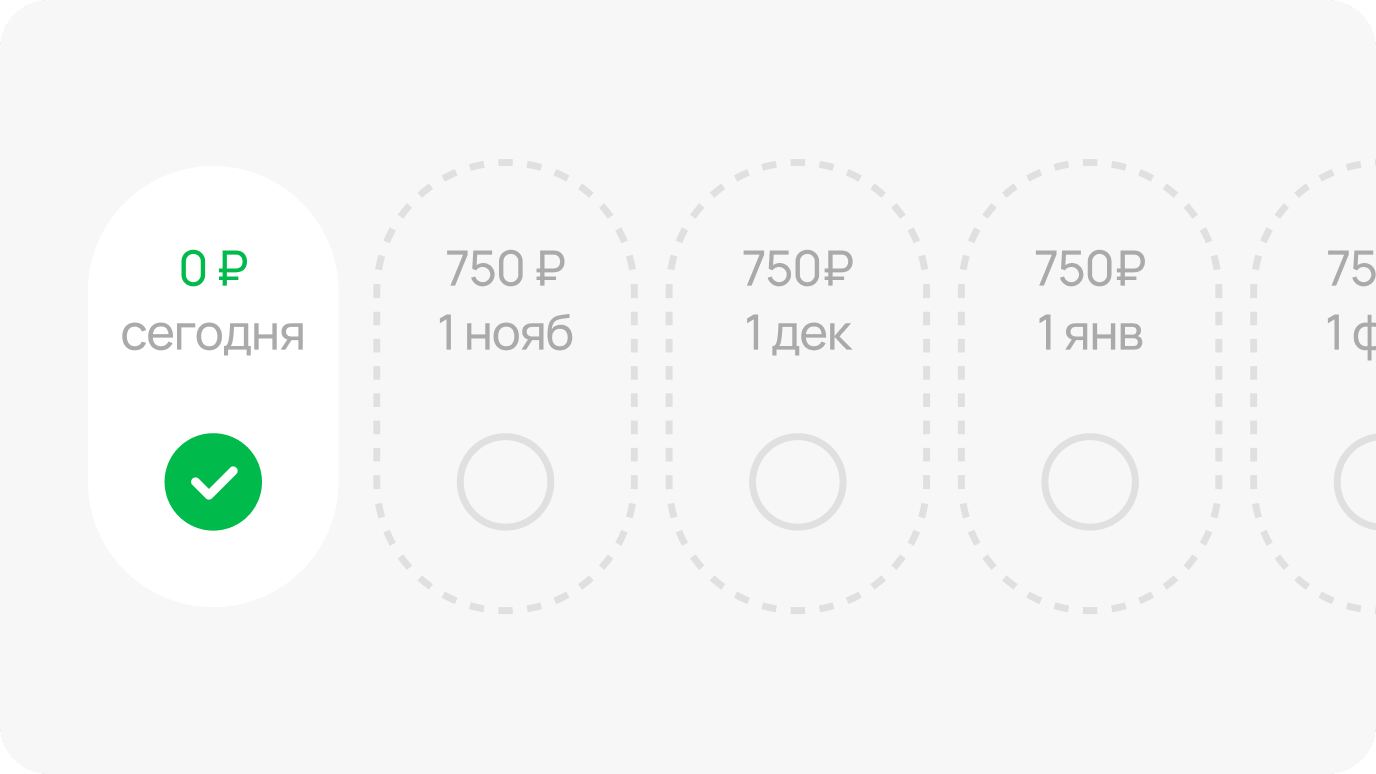
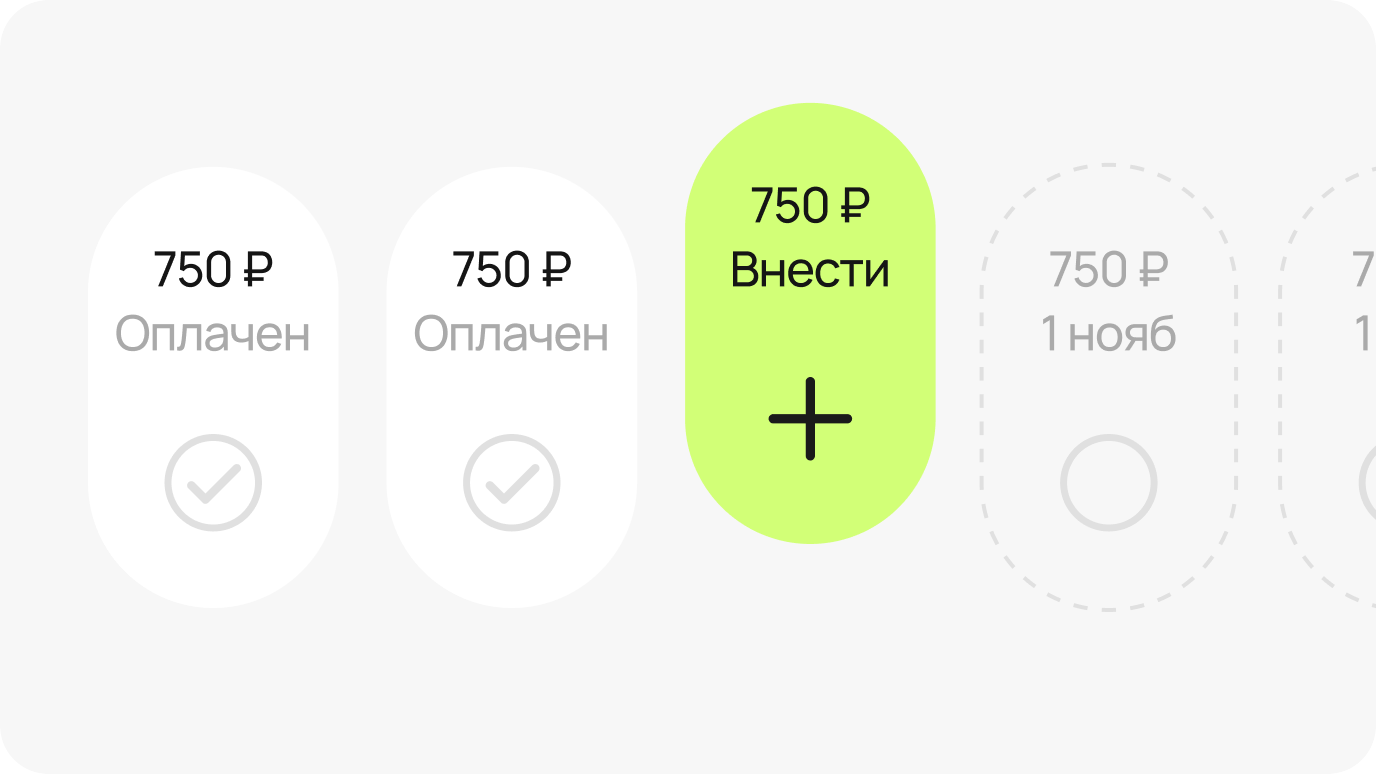
Статья: плашки «Выводы» со ссылкой на законы под плашкой, новые заглушки экранов, новая картинка шапки, иллюстрации на мобильном крупнее
Claude-Session: https://claude.ai/code/session_01BBwQy3shMoLzDP97ZsKZNh

diff --git a/CLAUDE.md b/CLAUDE.md
@@ -46,7 +46,7 @@
 - Adaptive-токены пересчитываются из переменных Figma: обновить `scripts/figma-vars/*.json` и запустить `node scripts/adaptive-tokens.mjs`.
 
 ## Статья
-- `/blog/marketplaces-installments` (`src/pages/blog/*`, `src/components/article/*`): секции чередуют surface/primary и surface/tertiary, иллюстрации — экспорт кадров макета 2x (`src/assets/article/img/`, углы прозрачные — скругление в самой картинке, без CSS-обрезки) → AVIF/WebP/PNG, на мобильном в масштабе 0.6 с горизонтальной прокруткой; «Норма» — `Note.astro`; «Итог» — настоящая `<table>`; заголовки этапов пронумерованы (`.art-step`, CSS-счётчик, Figma `808:12267`): номер в кружке 32 px (element-border, цифра Body/Medium text/secondary-inversion) — на desktop слева от заголовка по центру первой строки (22 px до текста), заголовок на одной линии с текстом; на mobile кружок над заголовком (gap-xs); списки в тексте — `ul`/`ol` внутри `.prose`; на мобильном плашка на всю ширину экрана, первая колонка залипает, площадки листаются под неё.
+- `/blog/marketplaces-installments` (`src/pages/blog/*`, `src/components/article/*`): секции чередуют surface/primary и surface/tertiary, иллюстрации — экспорт кадров макета 2x (`src/assets/article/img/`, углы прозрачные — скругление в самой картинке, без CSS-обрезки) → AVIF/WebP/PNG, на мобильном в масштабе 0.72 (первый телефон и половина второго — видно, что листается) с горизонтальной прокруткой; заглушки «Не удалось найти экран» (иконка, подзаголовок-причина) — в самих картинках; плашка «Выводы» — `Note.astro` (817:11981: нумерованный `ol`, номер в кружке-обводке 24 px), ссылка на законы — отдельным абзацем после плашки; «Итог» — настоящая `<table>`; заголовки этапов пронумерованы (`.art-step`, CSS-счётчик, Figma `808:12267`): номер в кружке 32 px (element-border, цифра Body/Medium text/secondary-inversion) — на desktop слева от заголовка по центру первой строки (22 px до текста), заголовок на одной линии с текстом; на mobile кружок над заголовком (gap-xs); списки в тексте — `ul`/`ol` внутри `.prose`; на мобильном плашка на всю ширину экрана, первая колонка залипает, площадки листаются под неё.
 - Навигация (`ArticleNav.astro` + `src/scripts/article-nav.ts`): кнопка внизу по центру (24 px от низа), подпись — текущий раздел, в оглавлении он подсвечен; видна всё время между первым экраном и оффером «Заполнить бриф», на первом экране, оффере и в футере спрятана; оверлей — градиент static/black 40% снизу → прозрачный вверху (размытие убрали по просьбе); у кнопки без тени (на мобильном её обрезала панель браузера); панель вырастает из кнопки, иконка строк превращается в крестик; Esc, клик по оверлею, «Закрыть», пункт — плавный нативный скролл.
 - Шапка (`ArticleHead.astro` + `src/scripts/article-head.ts`, Figma `746:12778`): крошки «Главная / название» (`Crumbs.astro`, те же, что в первом экране) на полосе во всю ширину, desktop 84; на первом экране статьи не показывается совсем, ниже — выезжает при скролле вверх и уезжает при скролле вниз (порог 12 px). Фон — прогрессивное стекло: 4 слоя `backdrop-filter` 2/4/8/16 px под масками (сверху сильнее, к низу сходит на нет) + белая дымка 63 % → 0; `-webkit-backdrop-filter` — в атрибуте `style` (из CSS сборка его выбрасывает).
 - Переход между страницами — View Transitions (`@view-transition` в `base.css`): заголовок карточки статьи перетекает в заголовок статьи (`data-vt-title`), остальное — fade + подъём; при reduced motion выключен.
